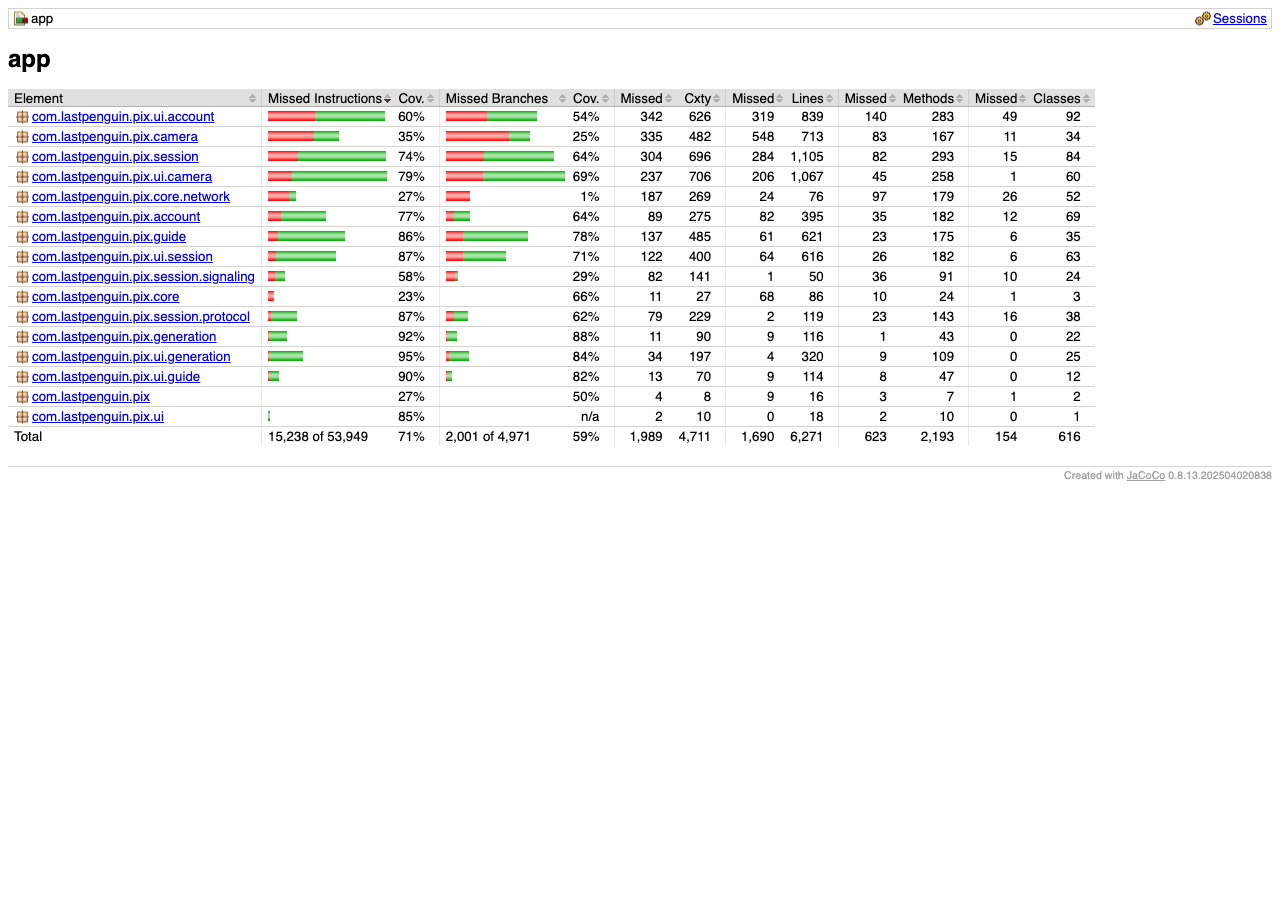
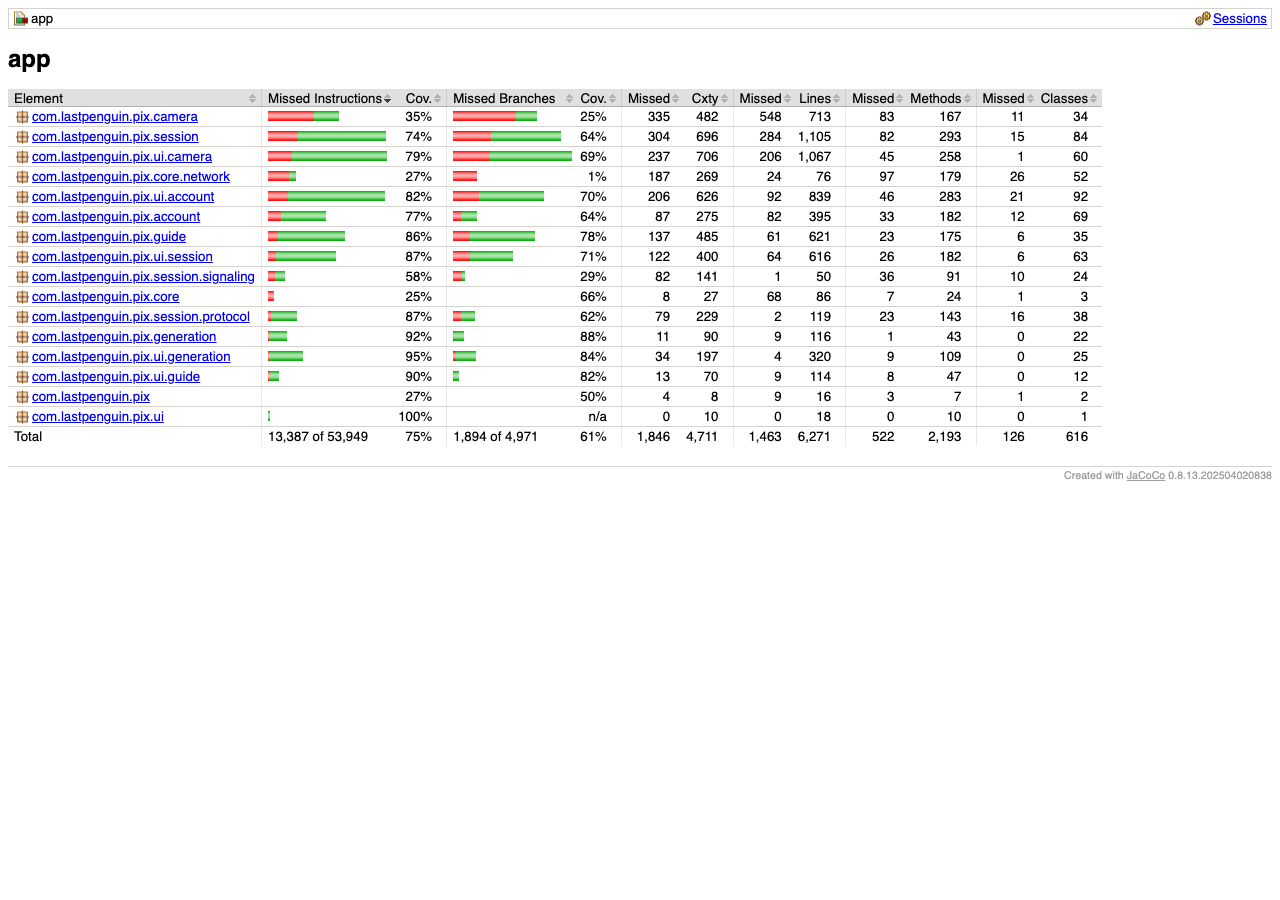
wiki: re-record the Iteration 2 results with the account screen tests
2.2.1, the Test Log, and the two app report screenshots on commit 16d5912:
692 app tests, Views 85.9 %, app 76.7 %.

diff --git a/wiki/Testing-Documentation.md b/wiki/Testing-Documentation.md
@@ -15,7 +15,7 @@
 | 1.10 | 2026-10-21 | Sign-in, Pix ID, and Friends screens (Iter2-P13, #54; Design 2.5.2, 2.5.3, 2.8). App, on the JVM with hand-written fakes of the REST interfaces and the account modules (`AccountFakes.kt`): `AccountRulesTest` checks the rules the forms show as the user types, at their edges (a Pix ID of 3, 4, 20, and 21 characters, with a capital, a space, or a symbol; a password of 7, 8, 64, and 65 characters, letters only, digits only, the Pix ID in another case, an emoji counted as one character; a name of 30 and 31 characters after trimming); `AuthTokensTest` the kept sign-in, a token with more and less than a minute left, a rejected token refreshed once, a token another caller already replaced, three rejections sharing one refresh, and a refresh refused (signed out, `expired` emitted), unanswered, or answered `503` (tokens kept); `RemoteAuthRepositoryTest` each sign-in and account change with the server's error codes, a Pix ID with capitals and spaces, `NOT_REGISTERED` without a sign-in, and sign-out with and without an answer; `RemoteFriendsRepositoryTest` both lists, every lookup relation and an unknown one, a request that makes friends at once, an answer to a request already gone, and the lists emptied when another user signs in; `PresenceConnectionTest` the socket only while signed in and in front, closed on background, sign-out, and another user, and its retries after 1, 2, 4, 8, 16, 30, and 30 s in virtual time. `BearerTokensTest` runs the account client against OkHttp's MockWebServer, a new test dependency: the bearer header, one refresh and one retry on `401 UNAUTHENTICATED`, no retry on another `401` code or on a second `401`, and three requests rejected at once that share one refresh. ViewModels: `AccountViewModelTest` (log-in, Google registered and not, the three answers to "Do you already have a Pix account?", a Google account that could not be added, every account change, one call at a time) and `FriendsViewModelTest` (refreshing every 10 s only with a Pix ID, offline and back, the search phases, the result's buttons, answers disabled while they run, failures as events). Robolectric on the real layouts: `FriendsScreenTest` (signed out, loading, without a Pix ID, no friends, friends online, offline, and in a session, requests, a failed refresh, a long press) and `AccountFormsTest` (Sign up's rules in red for "Test User!", Pix ID setup keeping a taken ID, Sign in, and Add a friend's character filter, relation labels, and *Search again*). Integration: IT-11, sign-in and friends on two phones (2.1.5). |
 | 1.11 | 2026-10-22 | *Check* and *Sent requests* (Iter2-P13, #54; R&S FR-5.15, FR-5.16; Design 2.5.3). Server, through the test client (`test_accounts.py`): `POST /auth/check-pix-id` for a free Pix ID, one taken by a password account or chosen by a Google account, one freed by a change, each broken rule named as sign-up names it, and no token or a bad one. App, with the fakes of 1.10: `RemoteAuthRepositoryTest` the check's two answers, the rule from the server, and no answer; `RemoteFriendsRepositoryTest` the sent requests from a refresh, a new request first in the list, one without its user in the answer, one that makes friends at once, a withdrawal, a withdrawal of a request already answered (`404`: it leaves and the call fails), another failure (it stays), and the list emptied for another user; `AccountViewModelTest` checking, free, taken, failed, a check beside a running sign-up, a newer check replacing one still waiting, and an opened form forgetting it; `FriendsViewModelTest` the sent list in the state and *Withdraw* (disabled while it runs, a failure as an event). Robolectric on the real layouts: `AccountFormsTest` (*Check* off until the rule holds, "Checking…", free in green, taken and no answer in red, an answer for another Pix ID than the field's, a refusal at sign-up over a check that said free, Pix ID setup), `FriendsScreenTest` (*Sent requests · N* only with sent requests and a Pix ID), and the new `SentRequestsScreenTest` (none, each request and its *Withdraw*, one being withdrawn, a failed refresh). Integration: IT-11 gains both (2.1.5). The room code from *Friends* opens over Camera, as in Iteration 1, so the camera already streams when the subject joins; IT-1 starts from *Use a room code* and checks the first video and *Cancel* (2.1.5). No goal or target changed. |
 | 1.12 | 2026-10-22 | Zoom without stutter (Iter2-P5, #47; Design 2.6.5). Its tests: the lens held during a pinch (`CameraZoomPlanTest`): each lens × a ratio inside the hold band, at its edges 0.95× and 1.05×, past them, and past an ultrawide that cannot reach the band, final or not, and a plan without an ultrawide; the pinch's `final` from the Camera screen's ViewModel (`CameraViewModelTest`) and from the subject's `camera.zoom.set`, also when the camera already shows its last value, a last value 0.005 off a held lens's edge that waits for the camera, and a pinch ended by `stop` when its last value never came (`RemoteControlHandlerTest`); the last frame held through a rebind (`PreviewHoldTest`), a new plain JVM test of each status and stream event. One request per display frame, the lens switch, and the frame on screen run on a phone only: IT-10 and NFR-19 are measured with the `PixTimings` log and `android/scripts/zoom_timings.py`, before (the measurement marks alone) and after the fix (2.1.4, 2.1.5, 2.1.6). |
-| 1.13 | 2026-10-23 | Coverage tools, screen tests, and adapter tests (Iter2-A1, #69, #94). Tools: JaCoCo for the app (`./gradlew :app:jacocoTestReport`, the exclusions of 2.1.3, Robolectric's no-location classes included) and `pytest-cov` with `[tool.coverage.*]` for the server (branch coverage, greenlet tracing, the omit list); the commands and report paths in 2.1.4 are no longer TODO. Screen tests on every Fragment and bottom sheet of the app, launched with `FragmentScenario` on a container of fakes (`TestAppContainer`, installed in `PixApplication`) with `TestNavHostController` for the navigation and `ShadowSurfaceViewRenderer` for WebRTC's renderer: `CameraFragmentRenderTest` (14: permission denied or granted; STARTING and READY; a guide added, hidden, removed, and the shutter's end of edit mode; a photo saved or failed; flash and brightness with and without the capability; 4:3 and 16:9; the scene photo step framing, reviewing, shooting again, and cancelled; a session connected and a peer leaving), `SubjectFragmentRenderTest` (9), `JoinCodeFragmentTest` (7), `ConnectionLostFragmentTest` (6), `RoomCodeSheetTest` (6), `SessionNotFoundFragmentTest` (1), `AddGuideSheetTest` (5), `ReferenceConfirmFragmentTest` (4), `NoPersonFoundFragmentTest` (1), `GenerationScreensTest` (11), and, on the account screens of Iter2-P13, `FriendsFragmentTest` (10: signed out, without a Pix ID, with one and the refresh running, each prompt and button leading on, My Pix ID copied, Accept and Decline, Remove after its question, Back, the server ending the sign-in and a failed answer as messages), `SignInFragmentTest` (9: a sign-in back to Friends or on to Pix ID setup, one refused, Google for a registered account and for a new one with each answer to the question, Google not added after the sign-in, Sign up, Back), `AddFriendFragmentTest` (5: found and added then withdrawn, already asked and accepted, no user and Search again, a failed search and a failed Add, Back), and `AccountSheetTest` (7: each account's offers, Edit name and Add a password with a value that breaks the rule and one that holds, Add Google, a refused change, Sign out); `launchPrepared` puts the shared ViewModels in the right phase before a screen's view is created. The *Views and Fragments* layer of 2.1.2 is now measured on the screens, not only on the custom Views. The subject test found that a hidden guide left the edit toggle drawn as on, because `MaterialButton` ignores `setChecked` while disabled; fixed by setting checked before enabled. Platform adapters tested on the JVM where they can be: `MlKitReferenceGuideMakerTest` (5, with a field-based double for the segmenter), `CameraFrameCacheTest` (4) and `CameraFrameSourceTest` (3) with `FakeImageProxy`, `DataStoreCameraSettingsTest` and `DataStoreGenerationConsentTest` (1 each), `OkHttpSignalingClientTest` (7, against OkHttp's MockWebServer), `PhotoSaverTest` (2), `AndroidPoseImageCodecTest` (4), and `LinkStatsParserTest` (6, on the statistics reader split out of `WebRtcPeerConnectionClient`). Results of Iteration 2 recorded in 2.2.1 (the unit, Robolectric, screen, and adapter tests and the server tests, line and branch coverage per layer against the proposed targets, the JaCoCo and pytest-cov reports as screenshots, the untested regions) and the Test Log's first rows; the integration runs (2.2.2) and the NFR measurements (2.2.3) stay for 10/24. The record is on commit `3382b44`, after `dev` (1.10–1.12) was merged into the branch. No goal or target changed. |
+| 1.13 | 2026-10-23 | Coverage tools, screen tests, and adapter tests (Iter2-A1, #69, #94). Tools: JaCoCo for the app (`./gradlew :app:jacocoTestReport`, the exclusions of 2.1.3, Robolectric's no-location classes included) and `pytest-cov` with `[tool.coverage.*]` for the server (branch coverage, greenlet tracing, the omit list); the commands and report paths in 2.1.4 are no longer TODO. Screen tests on every Fragment and bottom sheet of the app, launched with `FragmentScenario` on a container of fakes (`TestAppContainer`, installed in `PixApplication`) with `TestNavHostController` for the navigation and `ShadowSurfaceViewRenderer` for WebRTC's renderer: `CameraFragmentRenderTest` (14: permission denied or granted; STARTING and READY; a guide added, hidden, removed, and the shutter's end of edit mode; a photo saved or failed; flash and brightness with and without the capability; 4:3 and 16:9; the scene photo step framing, reviewing, shooting again, and cancelled; a session connected and a peer leaving), `SubjectFragmentRenderTest` (9), `JoinCodeFragmentTest` (7), `ConnectionLostFragmentTest` (6), `RoomCodeSheetTest` (6), `SessionNotFoundFragmentTest` (1), `AddGuideSheetTest` (5), `ReferenceConfirmFragmentTest` (4), `NoPersonFoundFragmentTest` (1), `GenerationScreensTest` (11), and, on the account screens of Iter2-P13, `FriendsFragmentTest` (10: signed out, without a Pix ID, with one and the refresh running, each prompt and button leading on, My Pix ID copied, Accept and Decline, Remove after its question, Back, the server ending the sign-in and a failed answer as messages), `SignInFragmentTest` (9: a sign-in back to Friends or on to Pix ID setup, one refused, Google for a registered account and for a new one with each answer to the question, Google not added after the sign-in, Sign up, Back), `AddFriendFragmentTest` (5: found and added then withdrawn, already asked and accepted, no user and Search again, a failed search and a failed Add, Back), and `AccountSheetTest` (7: each account's offers, Edit name and Add a password with a value that breaks the rule and one that holds, Add Google, a refused change, Sign out); `launchPrepared` puts the shared ViewModels in the right phase before a screen's view is created. The *Views and Fragments* layer of 2.1.2 is now measured on the screens, not only on the custom Views. The subject test found that a hidden guide left the edit toggle drawn as on, because `MaterialButton` ignores `setChecked` while disabled; fixed by setting checked before enabled. Platform adapters tested on the JVM where they can be: `MlKitReferenceGuideMakerTest` (5, with a field-based double for the segmenter), `CameraFrameCacheTest` (4) and `CameraFrameSourceTest` (3) with `FakeImageProxy`, `DataStoreCameraSettingsTest` and `DataStoreGenerationConsentTest` (1 each), `OkHttpSignalingClientTest` (7, against OkHttp's MockWebServer), `PhotoSaverTest` (2), `AndroidPoseImageCodecTest` (4), and `LinkStatsParserTest` (6, on the statistics reader split out of `WebRtcPeerConnectionClient`). Results of Iteration 2 recorded in 2.2.1 (the unit, Robolectric, screen, and adapter tests and the server tests, line and branch coverage per layer against the proposed targets, the JaCoCo and pytest-cov reports as screenshots, the untested regions) and the Test Log's first rows; the integration runs (2.2.2) and the NFR measurements (2.2.3) stay for 10/24. The record is on commit `16d5912`, after `dev` (1.10–1.12) was merged into the branch. No goal or target changed. |
 
 Audience: the development team and the course staff. This page makes our testing explicit and reproducible: anyone on the team can run the same commands, get the same numbers, and compare them with the goals set here in advance. Requirement IDs (FR-, NFR-, US-) refer to the [Requirements and Specifications](Requirements-and-Specifications) page, and section numbers in the form "Design 2.x" to the [Design Documentation](Design-Documentation). **TBD** marks a value the team still has to set; **TODO** marks a part that is filled in when its iteration comes.
 
@@ -247,17 +247,17 @@ Results are added per iteration and never overwritten; each iteration gets its o
 
 #### 2.2.1 Iteration 2 · unit and integration tests, coverage
 
-**Run.** Date: 2026-10-23 · Commit: `3382b44` on `chore/a1-coverage` (#94; the same code goes to `dev` with that PR) · Tester: 한준형 · Commands: those in 2.1.4, on a MacBook Air (Apple silicon) with JDK 21.0.12 and Python 3.11.17; the server suite on fakeredis and SQLite (the CI run on a real Redis and PostgreSQL is the same suite). The layer of each app class follows 2.1.2: `*ViewModel` are ViewModels; everything under `ui/` and the custom Views are Views; `CameraXController`, `CameraControls`, `MlKit…`, `Rtc…`, `WebRtc…`, `…SignalingClient`, `CameraFrameSource`, `CameraFrameCache`, `SubjectSegmenter`, `AndroidPose…`, `PhotoSaver`, `CameraLevelMonitor`, `OkHttpPresenceSockets`, `CredentialManager…`, `LinkStatsParser`, and the DataStore classes are platform adapters; `core/`, `MainActivity`, and `PixApplication` are glue, outside the targets; the rest are managers and repositories.
+**Run.** Date: 2026-10-23 · Commit: `16d5912` on `chore/a1-coverage` (#94; the same code goes to `dev` with that PR) · Tester: 한준형 · Commands: those in 2.1.4, on a MacBook Air (Apple silicon) with JDK 21.0.12 and Python 3.11.17; the server suite on fakeredis and SQLite (the CI run on a real Redis and PostgreSQL is the same suite). The layer of each app class follows 2.1.2: `*ViewModel` are ViewModels; everything under `ui/` and the custom Views are Views; `CameraXController`, `CameraControls`, `MlKit…`, `Rtc…`, `WebRtc…`, `…SignalingClient`, `CameraFrameSource`, `CameraFrameCache`, `SubjectSegmenter`, `AndroidPose…`, `PhotoSaver`, `CameraLevelMonitor`, `OkHttpPresenceSockets`, `CredentialManager…`, `LinkStatsParser`, and the DataStore classes are platform adapters; `core/`, `MainActivity`, and `PixApplication` are glue, outside the targets; the rest are managers and repositories.
 
 **Summary table.**
 
 | Component | Frameworks | Target (2.1.2, line) | Actual line | Actual branch | Date | Command / Report |
 |---|---|---|---|---|---|---|
 | App · managers and repositories | JUnit 4, coroutines-test, JaCoCo | 80 % (proposal) | **93.5 %** (1,470/1,572) | 71.9 % | 10/23 | `./gradlew :app:jacocoTestReport` · [report](images/testing_it2_jacoco.png) |
-| App · ViewModels | JUnit 4, coroutines-test, JaCoCo | 75 % (proposal) | **94.4 %** (707/749) | 77.4 % | 10/23 | same |
-| App · Views and Fragments | JUnit 4, Robolectric, FragmentScenario, JaCoCo | 40 % (proposal) | **76.2 %** (1,863/2,446) | 65.0 % | 10/23 | same |
+| App · ViewModels | JUnit 4, coroutines-test, JaCoCo | 75 % (proposal) | **94.4 %** (707/749) | 77.7 % | 10/23 | same |
+| App · Views and Fragments | JUnit 4, Robolectric, FragmentScenario, JaCoCo | 40 % (proposal) | **85.9 %** (2,100/2,446) | 71.0 % | 10/23 | same |
 | App · platform adapters | JUnit 4, Robolectric (where the JVM can run them); integration tests for the rest | 30 % (proposal) | **37.4 %** (571/1,526) | 31.3 % | 10/23 | same |
-| App · whole module (JaCoCo total) | | — | 73.1 % (4,581/6,271) | 59.7 % (2,970/4,971) | 10/23 | same |
+| App · whole module (JaCoCo total) | | — | 76.7 % (4,808/6,271) | 61.9 % (3,077/4,971) | 10/23 | same |
 | Server · `signaling`, `store`, `accounts` | pytest, pytest-cov | 90 % (proposal) | **97.6 %** (946/969) | 89.7 % | 10/23 | `uv run pytest --cov=pix_server --cov-branch` · [report](images/testing_it2_pytest_cov.png) |
 | Server · `poses` | pytest, pytest-cov | 85 % (proposal) | **99.3 %** (304/306) | 98.6 % | 10/23 | same |
 | Server · `main`, `config`, `errors`, `db` | pytest, pytest-cov | 60 % (proposal) | **98.9 %** (270/273) | 84.6 % | 10/23 | same |
@@ -269,10 +269,10 @@ Results are added per iteration and never overwritten; each iteration gets its o
 
 | Suite | Tests | Passed | Failed | Skipped | Time | Evidence |
 |---|---|---|---|---|---|---|
-| Android JVM, Robolectric, and screen tests (`:app:testDebugUnitTest`) | 661 | 661 | 0 | 0 | about 3 min (Robolectric's first SDK 36 sandbox included) | [screenshot](images/testing_it2_android_tests.png) |
+| Android JVM, Robolectric, and screen tests (`:app:testDebugUnitTest`) | 692 | 692 | 0 | 0 | about 3 min (Robolectric's first SDK 36 sandbox included) | [screenshot](images/testing_it2_android_tests.png) |
 | Server (`uv run pytest`, fakeredis and SQLite) | 431 | 431 | 0 | 0 | 2 min 45 s | [screenshot](images/testing_it2_server_tests.png) |
 
-Iteration 1 ended with 240 Android tests; Iteration 2 adds 421, of which 78 are the screen tests on the real Fragments, 33 the adapter tests on the JVM (2.1.1), and the rest the module, ViewModel, and layout tests of the features, the accounts of Iter2-P13 among them. The server suite is new since Iteration 1's 97.
+Iteration 1 ended with 240 Android tests; Iteration 2 adds 452, of which 109 are the screen tests on the real Fragments, 33 the adapter tests on the JVM (2.1.1), and the rest the module, ViewModel, and layout tests of the features, the accounts of Iter2-P13 among them. The server suite is new since Iteration 1's 97.
 
 **Known failing or skipped tests.** None. No test is quarantined.
 
@@ -280,7 +280,7 @@ Iteration 1 ended with 240 Android tests; Iteration 2 adds 421, of which 78 are 
 
 - App · adapters: `CameraXController` (0 of 540 lines), `WebRtcPeerConnectionClient` (0 of 197), `WebRtcRuntime` (0 of 21), the ML Kit call in `SubjectSegmenter` (2 of 50), and the three account adapters of Iter2-P13, `OkHttpPresenceSockets` (0 of 23), `DataStoreSignInStore` (0 of 23), and `CredentialManagerGoogleIdTokens` (0 of 20): they need CameraX, libwebrtc, ML Kit, Credential Manager, or the signed-in socket, and are covered by the integration tests of 2.1.5 (IT-1, IT-5, IT-6, IT-8, IT-10, IT-11). `OkHttpSignalingClient` (97.6 %), `LinkStatsParser`, `PhotoSaver`, `AndroidPoseImageCodec`, and `CameraFrameCache` (100 %), `CameraFrameSource` (94.4 %), `MlKitReferenceGuideMaker` (85.5 %), and the DataStore settings (75 %) are tested on the JVM (revision 1.13); what is left in them is the `content://` decode, the native crop-and-scale, the storage-error branches, and `CameraLevelMonitor`'s sensor callback (52.8 %). The parts of `CameraXController` that are pure decisions (`analysisSize`, the status rules, the flash and exposure restore rules, the ultrawide choice, the capability assembly) could be split out and tested on the JVM; not scheduled in Iteration 2.
 - App · glue: `AppContainer.create` (0 of 68) wires the real modules and runs only in the app; candidate for the exclusion list in 2.1.3.
-- App · screens: the account Fragments of Iter2-P13, `AccountSheet` (0 of 68 lines), `SignInFragment` (0 of 38), `FriendsFragment` and `AddFriendFragment` (0 of 25 each): their tests drive the screen classes (`FriendsScreen`, the forms) on the real layouts, not the Fragments, which is why the Views layer reads 76 % on this commit against 86 % on `0234b41`, before `dev` was merged; a `FragmentScenario` test on each, as for the other screens, is the open item. `CameraFragment` 74.0 %: the gallery intent, the focus-ring animation, the preview hold, and the clicks that navigate; `CameraCompositionView` 55.8 %; `AddGuideSheet` and `NoPersonFoundFragment`: the photo picker's result callbacks, which Robolectric cannot answer.
+- App · screens: `CameraFragment` 74.0 %: the gallery intent, the focus-ring animation, the preview hold, and the clicks that navigate; `CameraCompositionView` 55.8 %; `AddGuideSheet` and `NoPersonFoundFragment`: the photo picker's result callbacks, which Robolectric cannot answer. The account screens of Iter2-P13 are launched with `FragmentScenario` since revision 1.13 (`AccountSheet` and `AddFriendFragment` 100 %, `SignInFragment` 97.4 %, `FriendsFragment` 96.0 %); what is left in them is the copy confirmation on phones before Android 13.
 - Server: `store/session_store.py` 91.0 % (the Redis-outage branch, lines 35–42), `signaling/registry.py` 93.7 % (the worker-lost and disconnect-while-sending paths), `signaling/router.py` 93.8 % (a close while a message is in flight). All are failure paths of a real Redis that fakeredis does not raise; the CI run on a real Redis exercises some of them.
 
 **Shortfalls against the targets.** The targets of 2.1.2 are still the proposals (the team confirms them with this record). Against the proposals, no component is short. Platform adapters stood at 23.2 % on `39c013c` and 34.6 % on `0234b41`, and read 37.4 % here: `OkHttpSignalingClient`, `PhotoSaver`, `AndroidPoseImageCodec`, and `LinkStatsParser` joined the JVM tests, while the merge of `dev` brought three account adapters and 60 more lines of `CameraXController` at 0 % (revision 1.13). The rest of that layer (`CameraXController`, `WebRtcPeerConnectionClient`, `WebRtcRuntime`, the account adapters) stays with the integration tests; splitting `CameraXController`'s decisions (the status rules, the ultrawide choice, the capability assembly, the restore-after-rebind rules) into testable objects is the next step if the target is raised, now that Iter2-P5 (#47) has landed in that file.
@@ -391,7 +391,8 @@ One line per recorded run, newest first, so the history of the numbers is visibl
 
 | Date | Iteration | What ran | Commit | Outcome | Section |
 |---|---|---|---|---|---|
-| 2026-10-23 | 2 | Unit, Robolectric, screen, and adapter tests; server; coverage | `3382b44` | 661 + 431 tests, 0 failed; line coverage app 73.1 % (managers 93.5, ViewModels 94.4, Views 76.2, adapters 37.4) / server 98.2 % | 2.2.1 |
+| 2026-10-23 | 2 | Unit, Robolectric, screen, and adapter tests; server; coverage | `16d5912` | 692 + 431 tests, 0 failed; line coverage app 76.7 % (managers 93.5, ViewModels 94.4, Views 85.9, adapters 37.4) / server 98.2 % | 2.2.1 |
+| 2026-10-23 | 2 | Unit, Robolectric, screen, and adapter tests; server; coverage | `3382b44` | 661 + 431 tests, 0 failed; line coverage app 73.1 % (managers 93.5, ViewModels 94.4, Views 76.2, adapters 37.4) / server 98.2 % | 2.2.1 (superseded above) |
 | 2026-10-22 | 2 | Unit, Robolectric, screen, and adapter tests; server; coverage | `0234b41` | 482 + 423 tests, 0 failed; line coverage app 73.8 % (managers 93.6, ViewModels 94.1, Views 85.9, adapters 34.6) / server 98.2 % | 2.2.1 (superseded above) |
 | 2026-10-22 | 2 | Unit, Robolectric, and screen tests; server; coverage | `39c013c` | 468 + 423 tests, 0 failed; line coverage app 70.5 % (managers 93.0, ViewModels 94.1, Views 85.9, adapters 23.2) / server 98.2 % | 2.2.1 (superseded above) |
 | 2026-10-DD | 2 | Integration IT-1 … IT-10 (pending) | | | 2.2.2 |
